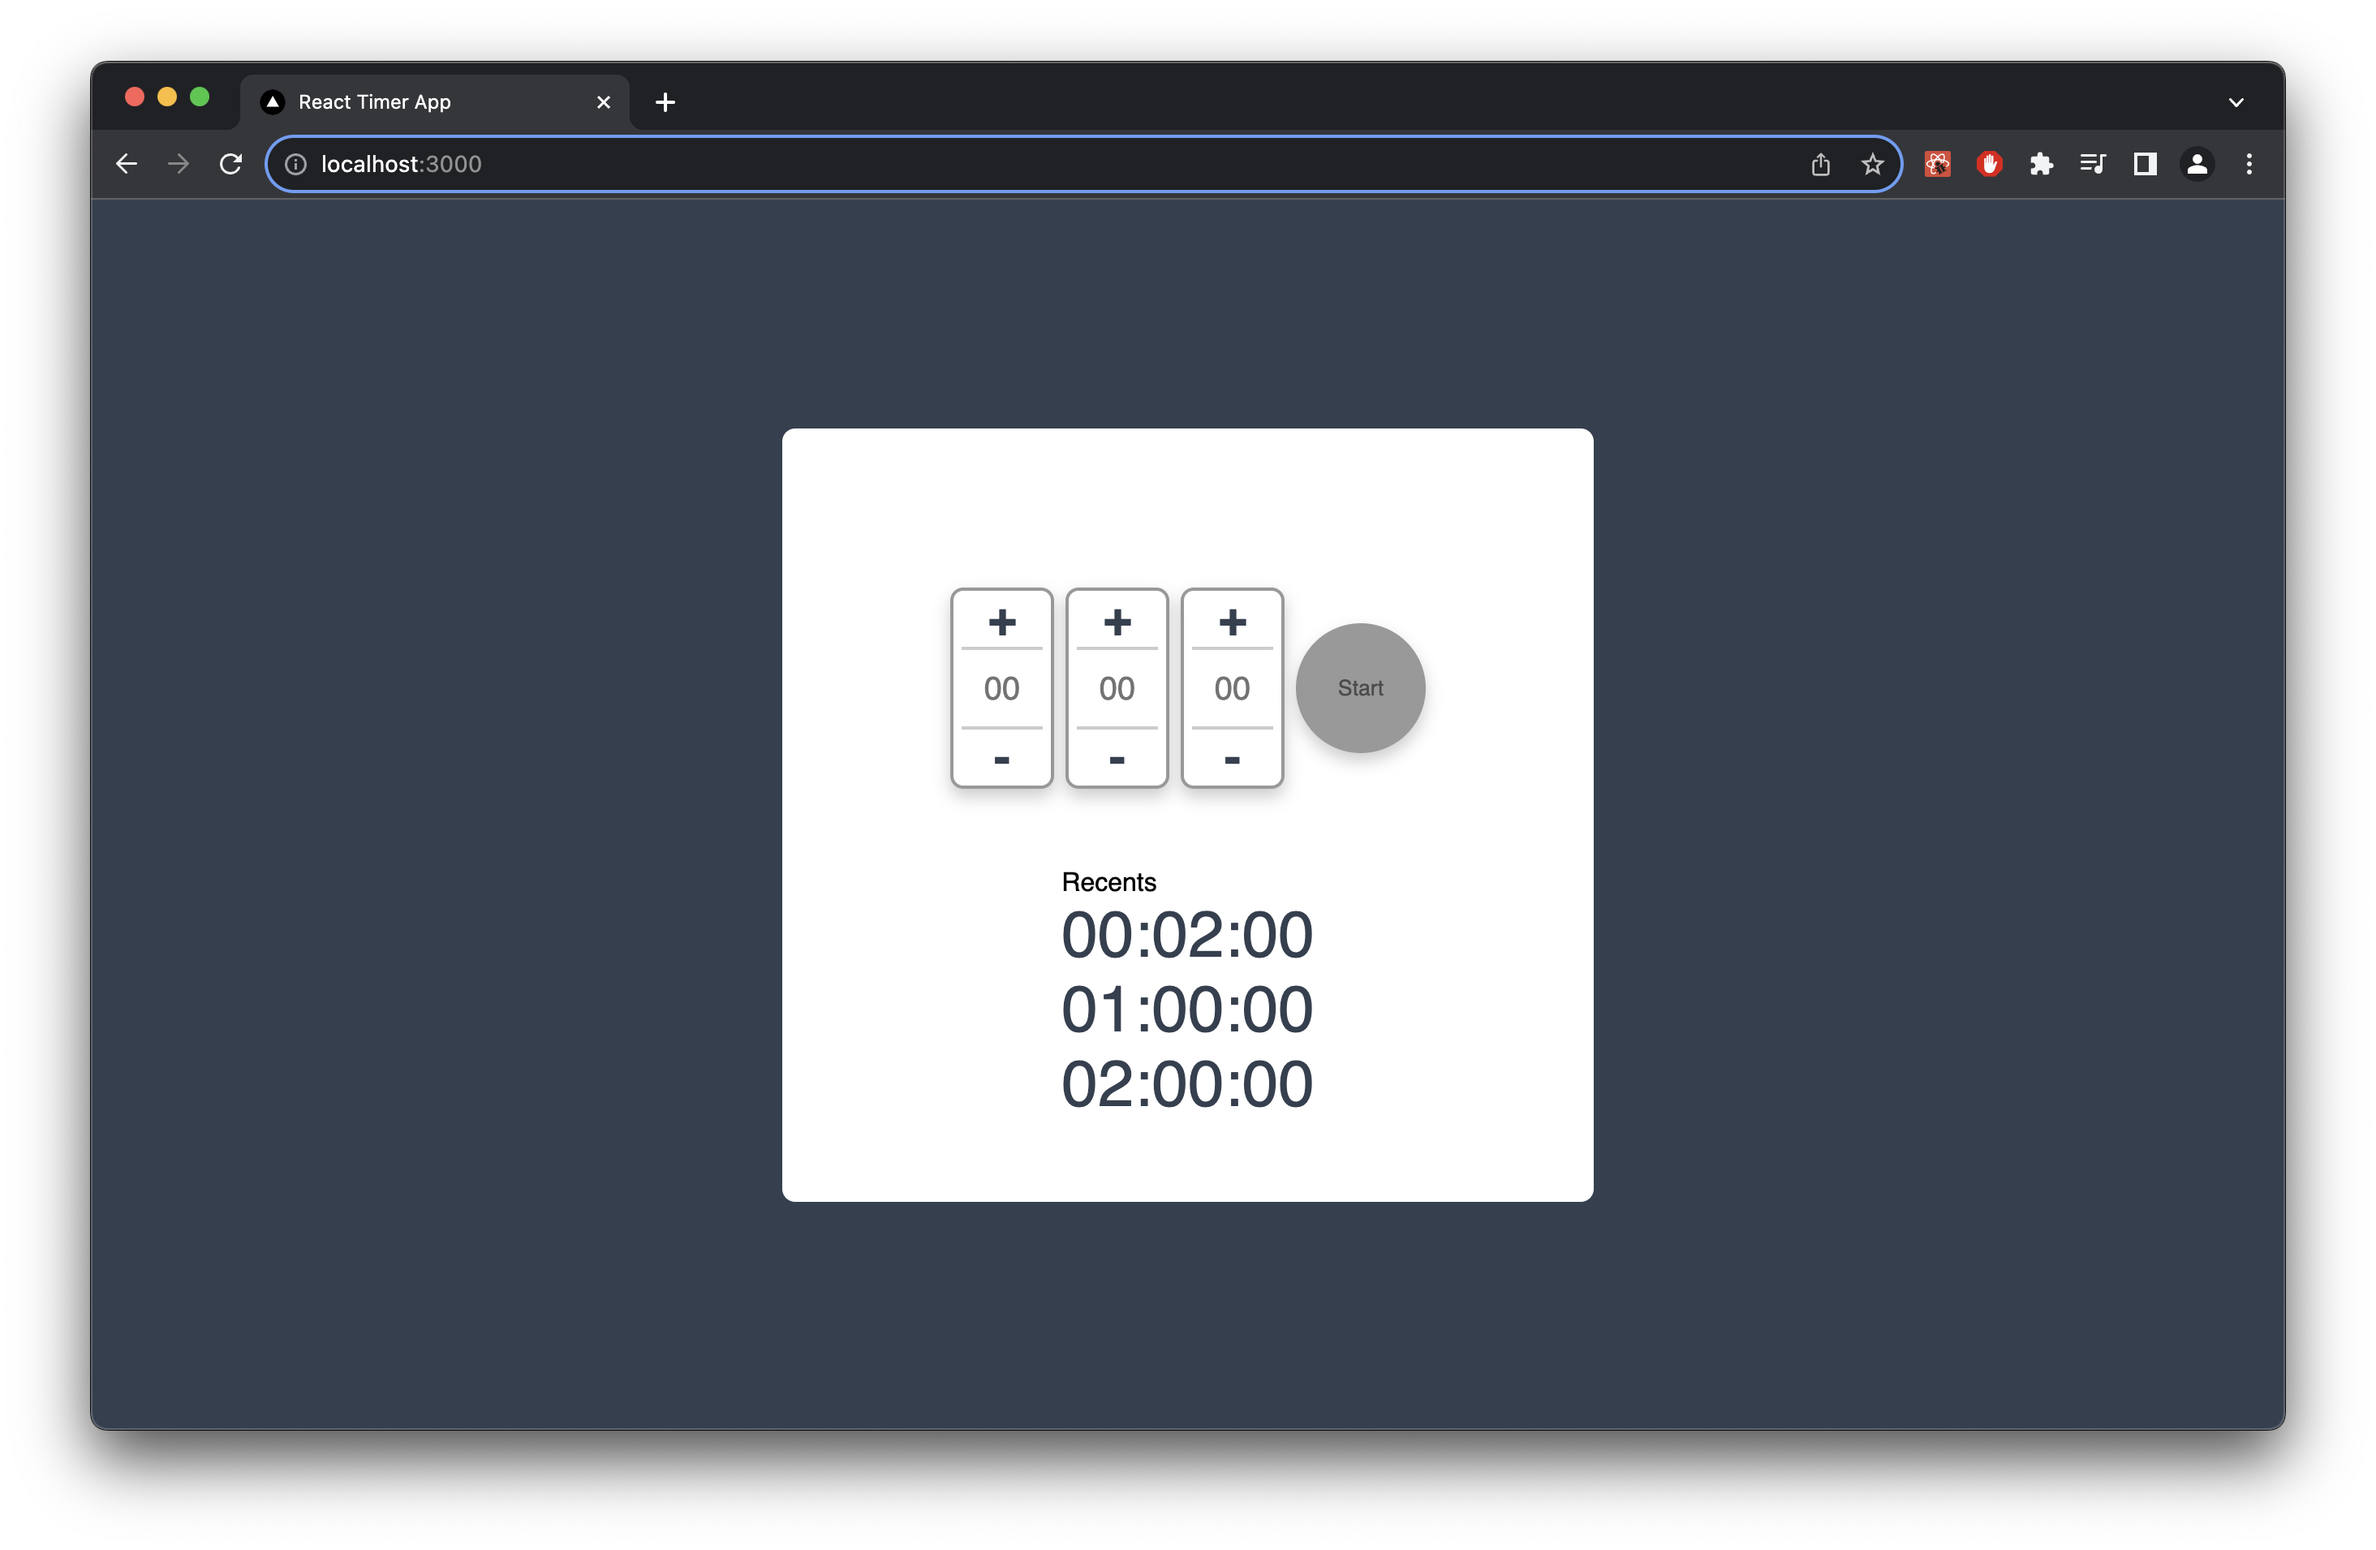
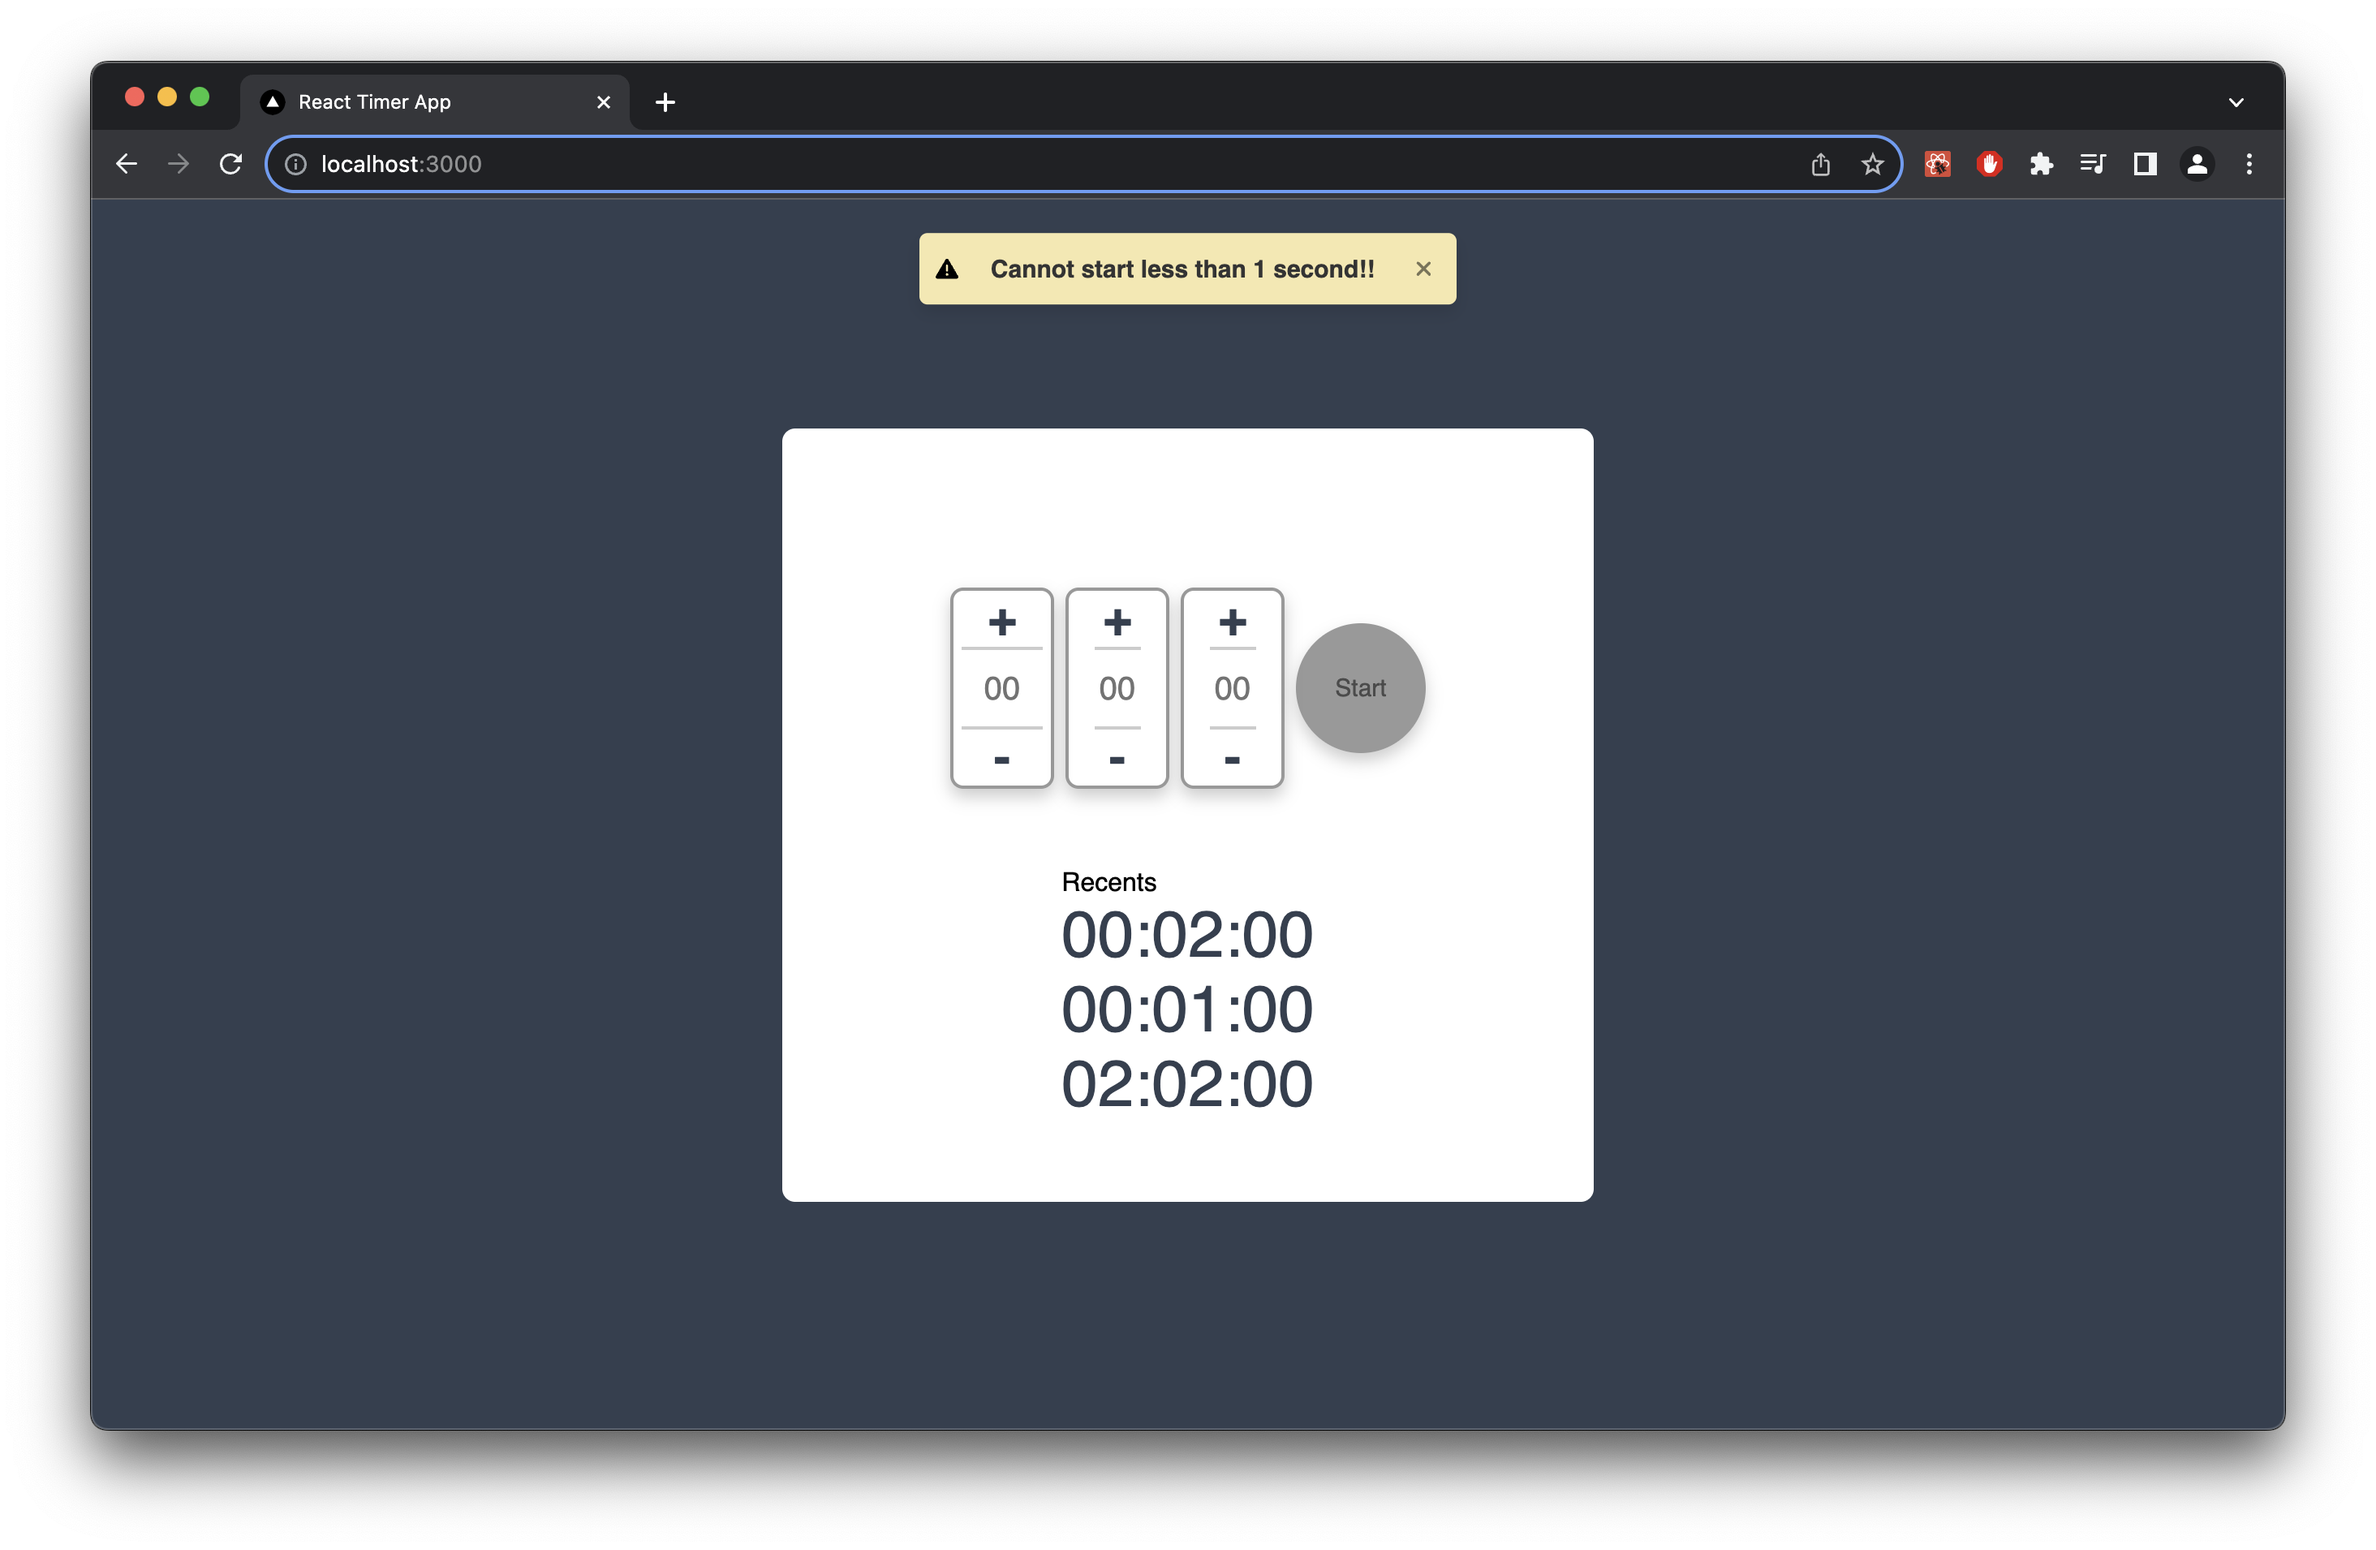
Update README

Changed region(s): [[0.373, 0.1236, 0.6216, 0.2162], [0.4662, 0.6178, 0.5283, 0.7105]]

diff --git a/README.md b/README.md
@@ -28,6 +28,7 @@ This project uses [`next/font`](https://nextjs.org/docs/basic-features/font-opti
 ## Features
 
 - Timer can set range from 00:00:01 to 23:59:59.
-- Recently 3 timer can be quick start on click.
-- Can Pause and Resume timer.
-- Tab title will show timer and update every second.
+- Recently 3 timer can be quick start.
+- Pause and Resume timer.
+- Show timer at tab title.
+- Start 00:00:00 will show warning toast.
